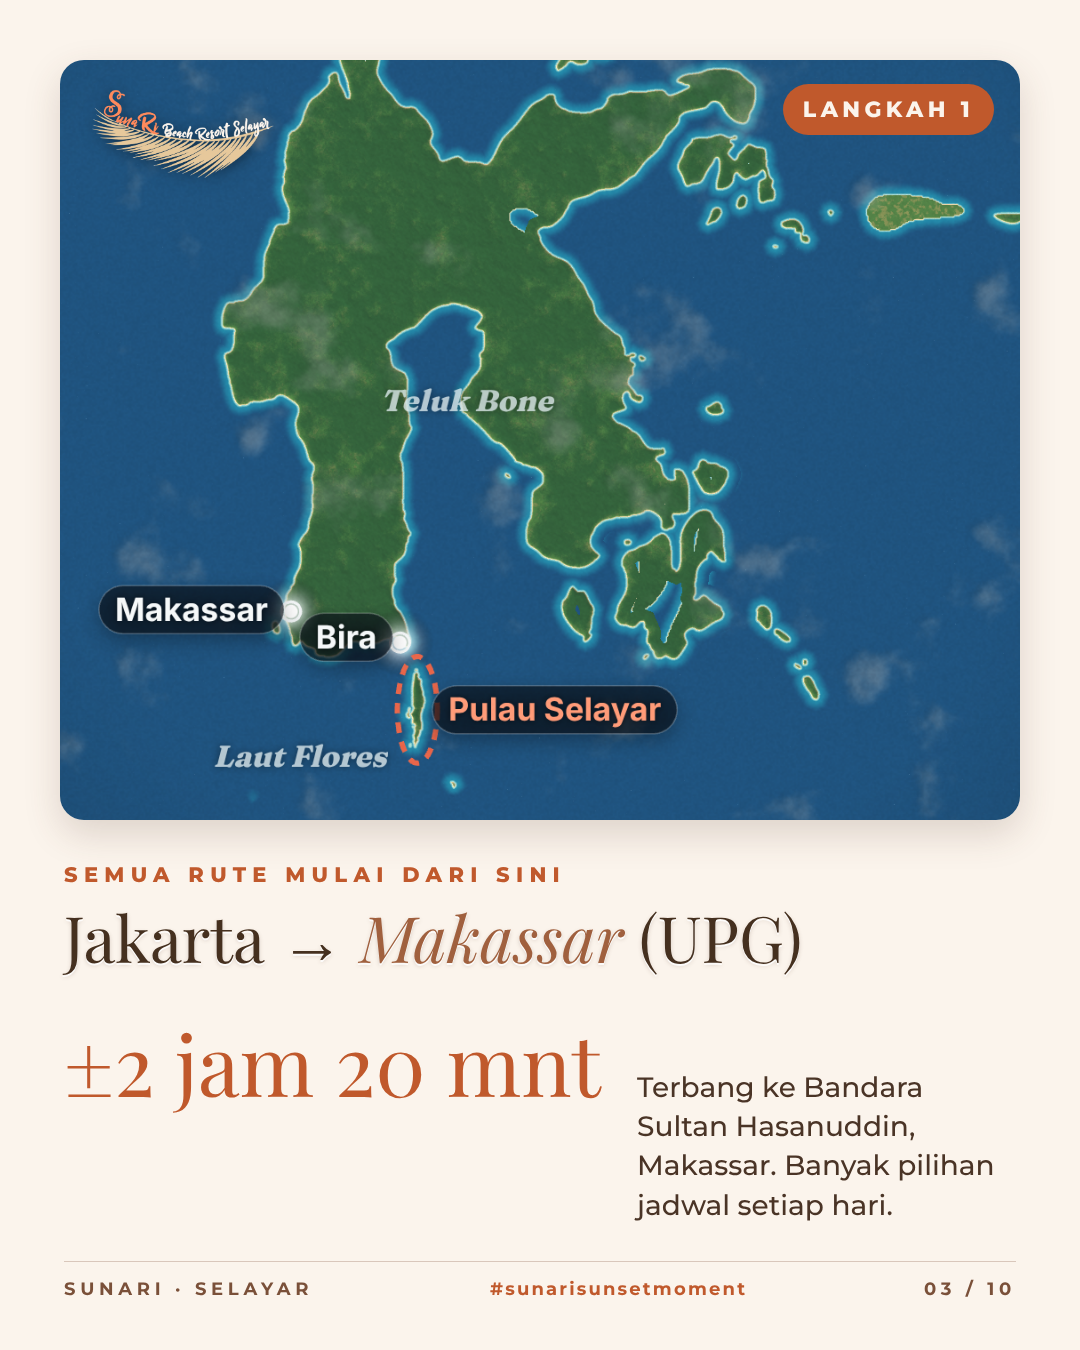
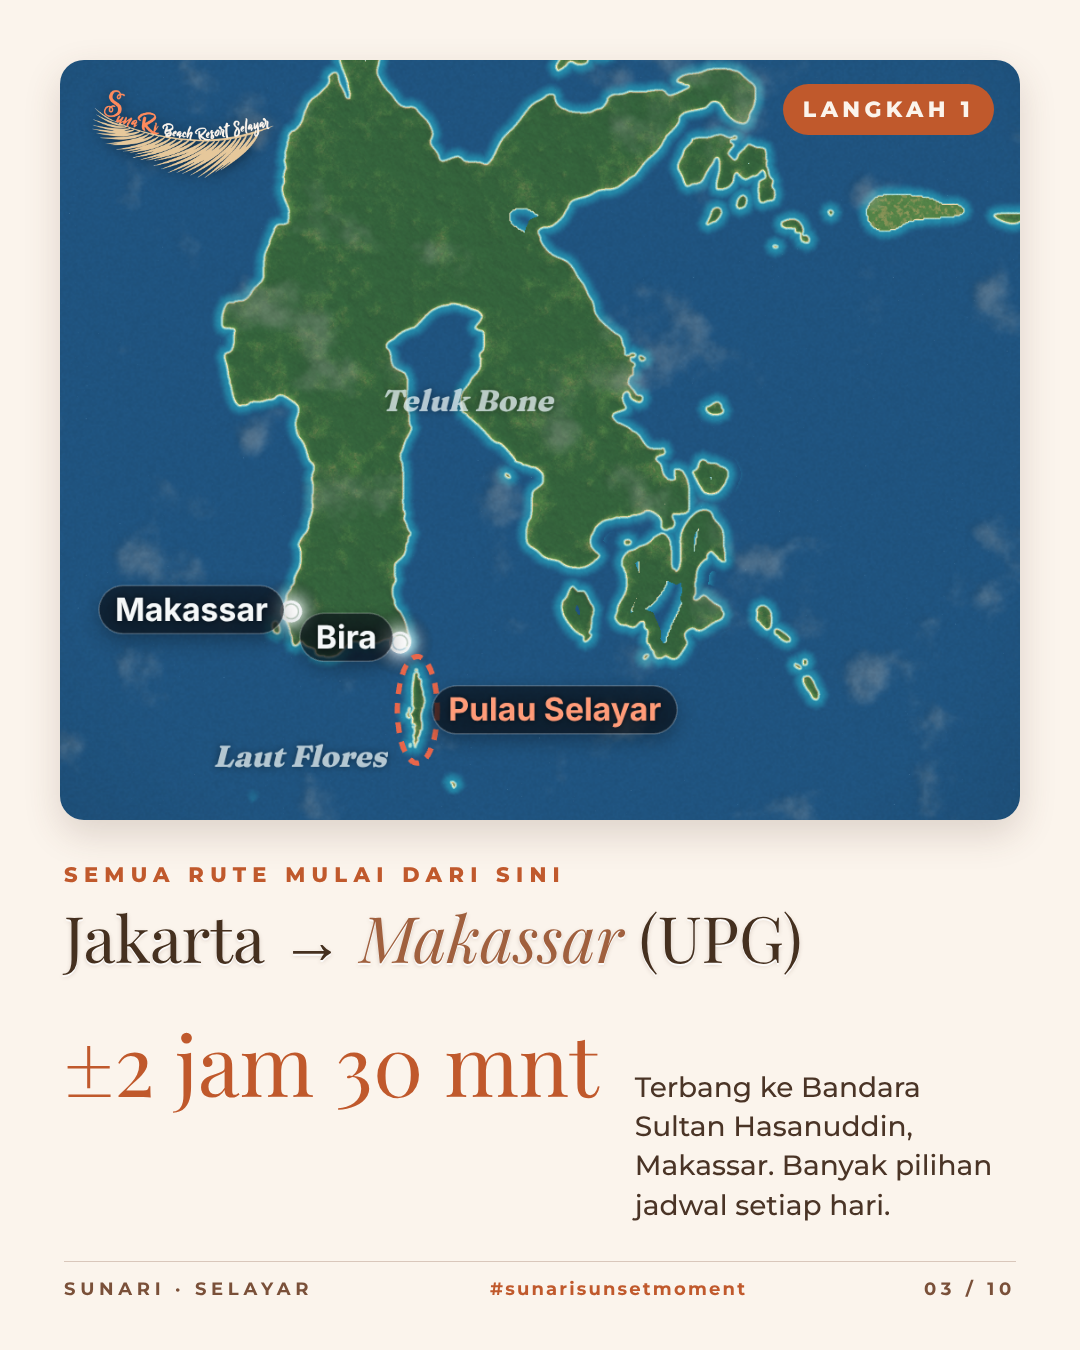
Rute Jakarta: flight time 2h30
Claude-Session: https://claude.ai/code/session_01AizaiBQtsTmWERPRfEgVV4

Changed region(s): [[0.5806, 0.7778, 0.9167, 0.9022], [0.3056, 0.7778, 0.55, 0.84]]

diff --git a/social/rute_jakarta.html b/social/rute_jakarta.html
@@ -29,7 +29,7 @@
   <div style="position:absolute;left:80px;bottom:76px;font-weight:700;font-size:20px;letter-spacing:.38em;text-transform:uppercase;color:#FBF4EC">Geser &nbsp;→</div>
   <img src="../assets/logo-sunari-color-dark.png" style="position:absolute;left:76px;bottom:120px;width:260px;filter:drop-shadow(0 2px 8px rgba(0,0,0,.45))" alt=""></div><div class="t" id="rute-02"><div class="ph"><img src="../assets/maps/03_tiga_rute.png" style="object-position:50% 42%" alt=""><img class="lg" src="../assets/logo-sunari-color-dark.png" alt=""></div>
   <div class="kick">Gambaran besarnya</div><div class="ttl emb">Jakarta → Makassar → <em>Selayar</em></div><div class="big"><b>±5 jam</b><span>lewat udara<br>(belum termasuk transit)</span><b>±12 jam</b><span>lewat darat<br>&amp; feri</span></div><div class="bt"><span>SunaRi · Selayar</span><span class="h">#sunarisunsetmoment</span><span>02 / 10</span></div></div><div class="t" id="rute-03"><div class="ph"><img src="../assets/maps/02_sulawesi.png" style="object-position:50% 55%" alt=""><img class="lg" src="../assets/logo-sunari-color-dark.png" alt=""><div class="step">Langkah 1</div></div>
-  <div class="kick">Semua rute mulai dari sini</div><div class="ttl emb">Jakarta → <em>Makassar</em> (UPG)</div><div class="big"><b>±2 jam 20 mnt</b><span>Terbang ke Bandara Sultan Hasanuddin, Makassar. Banyak pilihan jadwal setiap hari.</span></div><div class="bt"><span>SunaRi · Selayar</span><span class="h">#sunarisunsetmoment</span><span>03 / 10</span></div></div><div class="t" id="rute-04"><div class="ph"><img src="../assets/maps/04_rute1_pesawat.png" style="object-position:50% 45%" alt=""><img class="lg" src="../assets/logo-sunari-color-dark.png" alt=""><div class="step">Opsi cepat</div></div>
+  <div class="kick">Semua rute mulai dari sini</div><div class="ttl emb">Jakarta → <em>Makassar</em> (UPG)</div><div class="big"><b>±2 jam 30 mnt</b><span>Terbang ke Bandara Sultan Hasanuddin, Makassar. Banyak pilihan jadwal setiap hari.</span></div><div class="bt"><span>SunaRi · Selayar</span><span class="h">#sunarisunsetmoment</span><span>03 / 10</span></div></div><div class="t" id="rute-04"><div class="ph"><img src="../assets/maps/04_rute1_pesawat.png" style="object-position:50% 45%" alt=""><img class="lg" src="../assets/logo-sunari-color-dark.png" alt=""><div class="step">Opsi cepat</div></div>
   <div class="kick">Langkah 2 · lewat udara</div><div class="ttl emb">Makassar → <em>Aroeppala</em></div><div class="big"><b>±45 menit</b><span>Pesawat kecil ke Bandara H. Aroeppala, Selayar. Jadwal terbatas, cek di aplikasi tiket minimal H-7.</span></div><div class="bt"><span>SunaRi · Selayar</span><span class="h">#sunarisunsetmoment</span><span>04 / 10</span></div></div><div class="t" id="rute-05"><div class="ph"><img src="../assets/maps/05_rute2_darat_feri.png" style="object-position:50% 30%" alt=""><img class="lg" src="../assets/logo-sunari-color-dark.png" alt=""><div class="step">Opsi darat</div></div>
   <div class="kick">Langkah 2 · lewat darat</div><div class="ttl emb">Makassar → <em>Bira</em></div><div class="big"><b>±4–5 jam</b><span>Dari Terminal Malengkeri ke Bira (Bulukumba). Jalan pesisir selatan Sulawesi.</span></div><div class="bt"><span>SunaRi · Selayar</span><span class="h">#sunarisunsetmoment</span><span>05 / 10</span></div></div><div class="t" id="rute-06"><div class="ph"><img src="../assets/maps/05_rute2_darat_feri.png" style="object-position:50% 62%" alt=""><img class="lg" src="../assets/logo-sunari-color-dark.png" alt=""><div class="step">Opsi darat</div></div>
   <div class="kick">Langkah 3 · menyeberang</div><div class="ttl emb">Feri Bira → <em>Pamatata</em></div><div class="big"><b>±2 jam</b><span>Menyeberang ke Pulau Selayar. Tips: berangkat dari Makassar pagi hari dan cek jadwal feri lebih dulu.</span></div><div class="bt"><span>SunaRi · Selayar</span><span class="h">#sunarisunsetmoment</span><span>06 / 10</span></div></div><div class="t" id="rute-07"><div class="ph"><img src="../assets/maps/07_pulau_selayar.png" style="object-position:50% 50%" alt=""><img class="lg" src="../assets/logo-sunari-color-dark.png" alt=""><div class="step">Langkah terakhir</div></div>

diff --git a/social/build_rute_jakarta.py b/social/build_rute_jakarta.py
@@ -49,7 +49,7 @@ T.append(card(2, M + "03_tiga_rute.png", "50% 42%", "", "Gambaran besarnya", 'Ja
   '<div class="big"><b>±5 jam</b><span>lewat udara<br>(belum termasuk transit)</span><b>±12 jam</b><span>lewat darat<br>&amp; feri</span></div>'))
 # 3 · langkah 1
 T.append(card(3, M + "02_sulawesi.png", "50% 55%", "Langkah 1", "Semua rute mulai dari sini", 'Jakarta → <em>Makassar</em> (UPG)',
-  big("±2 jam 20 mnt", "Terbang ke Bandara Sultan Hasanuddin, Makassar. Banyak pilihan jadwal setiap hari.")))
+  big("±2 jam 30 mnt", "Terbang ke Bandara Sultan Hasanuddin, Makassar. Banyak pilihan jadwal setiap hari.")))
 # 4 · opsi cepat
 T.append(card(4, M + "04_rute1_pesawat.png", "50% 45%", "Opsi cepat", "Langkah 2 · lewat udara", 'Makassar → <em>Aroeppala</em>',
   big("±45 menit", "Pesawat kecil ke Bandara H. Aroeppala, Selayar. Jadwal terbatas, cek di aplikasi tiket minimal H-7.")))

diff --git a/social/rute-jakarta/CAPTION.md b/social/rute-jakarta/CAPTION.md
@@ -5,7 +5,7 @@
 Cara ke Sunari Beach Resort dari Jakarta, langkah demi langkah ✈🚗⛴ Simpan dulu biar nggak lupa!
 
 Rutenya: Jakarta → Makassar → Pulau Selayar.
-✈ Jakarta → Makassar ±2 jam 20 menit
+✈ Jakarta → Makassar ±2 jam 30 menit
 Lalu pilih:
 🛩 Opsi cepat: Makassar → Bandara H. Aroeppala ±45 menit (jadwal terbatas, cek H-7)
 🚗⛴ Opsi darat: Makassar → Bira ±4–5 jam, lalu feri Bira → Pamatata ±2 jam
